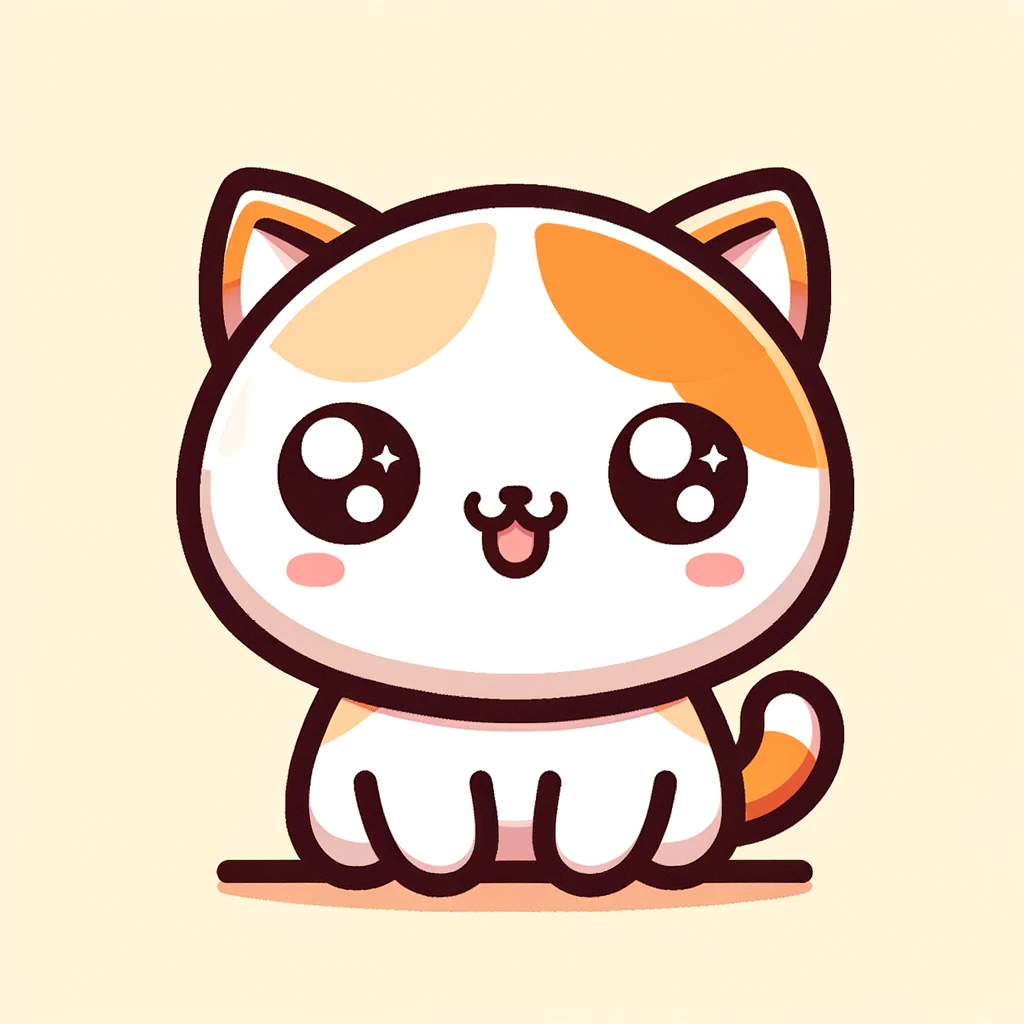
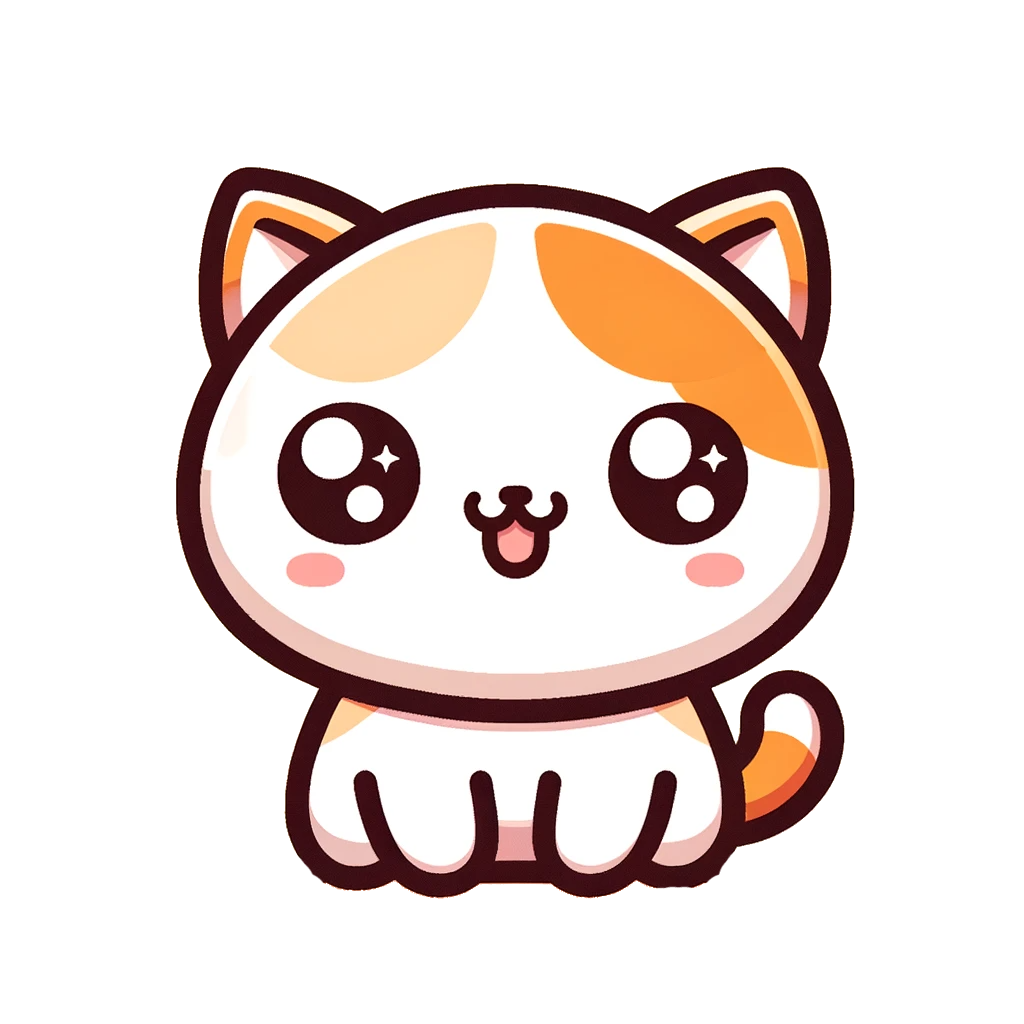
adjust player on screen and image

diff --git a/js/cat.js b/js/cat.js
@@ -9,7 +9,7 @@ class Cat {
     this.directionY = 0;
     this.element = document.createElement("img");
     this.element.setAttribute("src", image);
-    // this.element.style.position = "absolute";
+    this.element.style.position = "absolute";
     this.element.style.height = `${this.height}px`;
     this.element.style.width = `${this.width}px`;
     this.element.style.top = `${this.top}px`;

diff --git a/js/game.js b/js/game.js
@@ -13,8 +13,8 @@ class Game {
     this.food = [];
     this.player = new Cat(
       this.gameScreen,
-      200,
-      200,
+      395,
+      405,
       200,
       200,
       "../images/cat1.png"
